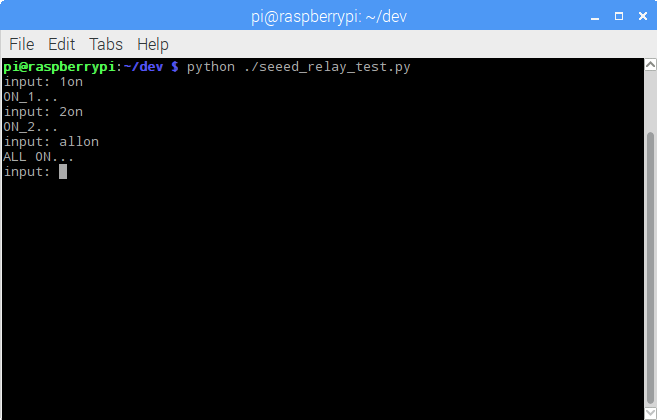
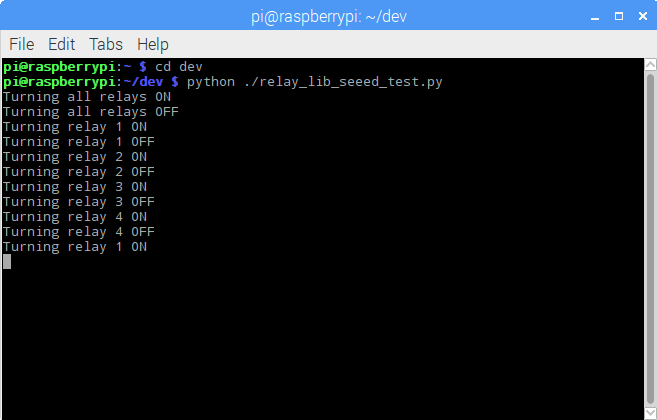
updated Fri 02/24/2017

Changed region(s): [[0.0, 0.1238, 0.6697, 0.65], [0.9741, 0.1548, 1.0, 0.3095]]

diff --git a/readme.md b/readme.md
@@ -20,39 +20,92 @@ To use this project, you'll need at a minimum the following hardware components:
  
 ## Assembly
 
+To assemble the hardware, mount the relay board on the Raspberry Pi as shown in the following figure. The relay board is designed for older Raspberry Pi's (they have less GPIO pins), so, as you can see, not all of the pins from the relay board will connect to the Raspberry Pi.  
+
 ![Assembly](screenshots/figure-02.png)
 
+To keep the boards from touching, you should use standoffs between the boards to hold them in place. The folks at Seeed Studio recommend placing a piece (or two) of electrical tape on top of the Raspberry Pi's Ethernet connector to protect the relay board from shorting out if the two boards touch there.
 
 ## Configuring Your Raspberry Pi
 
+Download the latest version of the Raspbian OS from the [Raspberry Pi web site](https://www.raspberrypi.org/downloads/raspbian/) and follow the [instructions](https://www.raspberrypi.org/documentation/installation/installing-images/README.md) for writing the OS image to a Micro SD card for the Pi. Insert the **SD card** in the Pi, connect **Ethernet**, **keyboard**, **mouse**, and a **monitor** to the Pi and finally **power it up** using a smartphone charger or some suitable power source.
+
+The relay board communicates with the Raspberry Pi using the I2C interface. This interface is disabled by default on Raspbian, so the first thing you'll want to do is open the **Raspberry Pi menu** (in the upper-left corner of the screen), select **Preferences**, then **Raspberry Pi Configuration** as shown in the following figure:
 
 ![Assembly](screenshots/figure-03.png)
 
+In the **Raspberry Pi Configuration** application, select the **Interfaces** tab and enable the I2C radio button a shown in the following figure.
+
 ![Assembly](screenshots/figure-04.png)
 
-### Validating Assembly
+Raspbian comes configured with its keyboard, timezone, and other locale settings configured for the United Kingdom (UK), so if you're in the US, or elsewhere that's not the UK, you'll want to switch over to the **localisation** tab and adjust the settings there as well.
 
-Update the JMW Article with this content: http://raspberrypi.stackexchange.com/questions/56413/error-problem-connecting-to-raspberry-pi-3-with-xrdp
+When you're done configuring I2C and the locale settings, you'll likely be prompted to reboot the Pi. Go ahead and do that before continuing. 
 
-this.
+### Validating Hardware Assembly
+
+When the Pi comes back up, open a terminal window and execute the following command:
+
+	sudo apt-get update
+
+This updates the local catalog of applications. Next, execute the following command:
+
+	sudo apt-get upgrade
+
+This command will update the Raspbian OS with all updates released after the latest image was published. The update process will take a long time, so pay attention, answer any prompts, and expect this process to take a few minutes or more (the last time I did this, it took about 15 minutes or more to complete).
+
+After the upgrade completes, in the terminal window, execute the following command:
+
+	i2cdetect -y -r 1
+
+This runs a Linux application that looks for I2C connections on the Raspberry Pi. When you run the application, you should see output similar to what's shown in the following figure:
 
 ![I2Cdetect](screenshots/figure-05.png)
 
-this. 
+In this example, it's showing that the relay board is available at I2C address 20. If you've messed with the switches on the relay board, you might see a different number in the output. If you do, make note of that number, you'll need to update the library code later to make it work with your board's configuration.
 
-![Seeed Studio Test Application](screenshots/figure-06.png)
+> **Note**: if you don't see a number in the dashed output shown in the figure, there's something wrong, the Pi doesn't see the board. At this point, I'd reach out to the folks at Seeed Studio or their community forums (not well monitored, unfortunately) for help.
 
-this.
+Now, lets download and test the library, in the terminal window, execute the following command:
 
-![Python Library test application](screenshots/figure-07.png)
+	git clone https://github.com/johnwargo/Seed-Studio-Relay-Board
+
+This will download the relay library and test application from its Github repository and copy the files to the local (relative to your terminal window) `Seed-Studio-Relay-Board` folder.
+
+> **Note**: capitalization matters in those commands, so pay close attention. Also, the Seeed in *Seeed Studio*, for some bizarre reason, has three e's in it, so make sure you've typed enough e's.
+
+Next, change to the folder you just created by executing the following command:
+
+	cd Seed-Studio-Relay-Board
+
+Your terminal window prompt should change to reflect the switch to the new folder.
+
+If your relay board's I2C address is different than `20`, open the `relay_lib_seeed.py` file, and look for the following two lines:
+
+	# Change the following value if your Relay board uses a different I2C address. 
+	DEVICE_ADDRESS = 0x20  # 7 bit address (will be left shifted to add the read write bit)
+
+Change the `0x20` in the line to the appropriate value for your configuration, replacing only the `20` with the address for your board.
+
+Now, finally, execute the following command:
+
+	python ./relay_lib_seeed_test.py
+
+This executes the relay library's test application, if everything is working correctly, it will turn all of the relays on for a second, turn them all off for a second, then toggle each relay in succession on and off until you press the **ctrl**+**C** keys to make it stop. When the application runs, you should see something similar to the following in the terminal window: 
+
+![Python Library test application](screenshots/figure-06.png)
+
+At this point, you should have a functional relay board configuration and know with certainty that the relay library works. 
 
 ## Software Installation
+
+
+![](screenshots/figure-07.png)
 
 
 ## Resources
 
 Links to the wiki page and my article and sample code
-
 
 ## Update History
 
